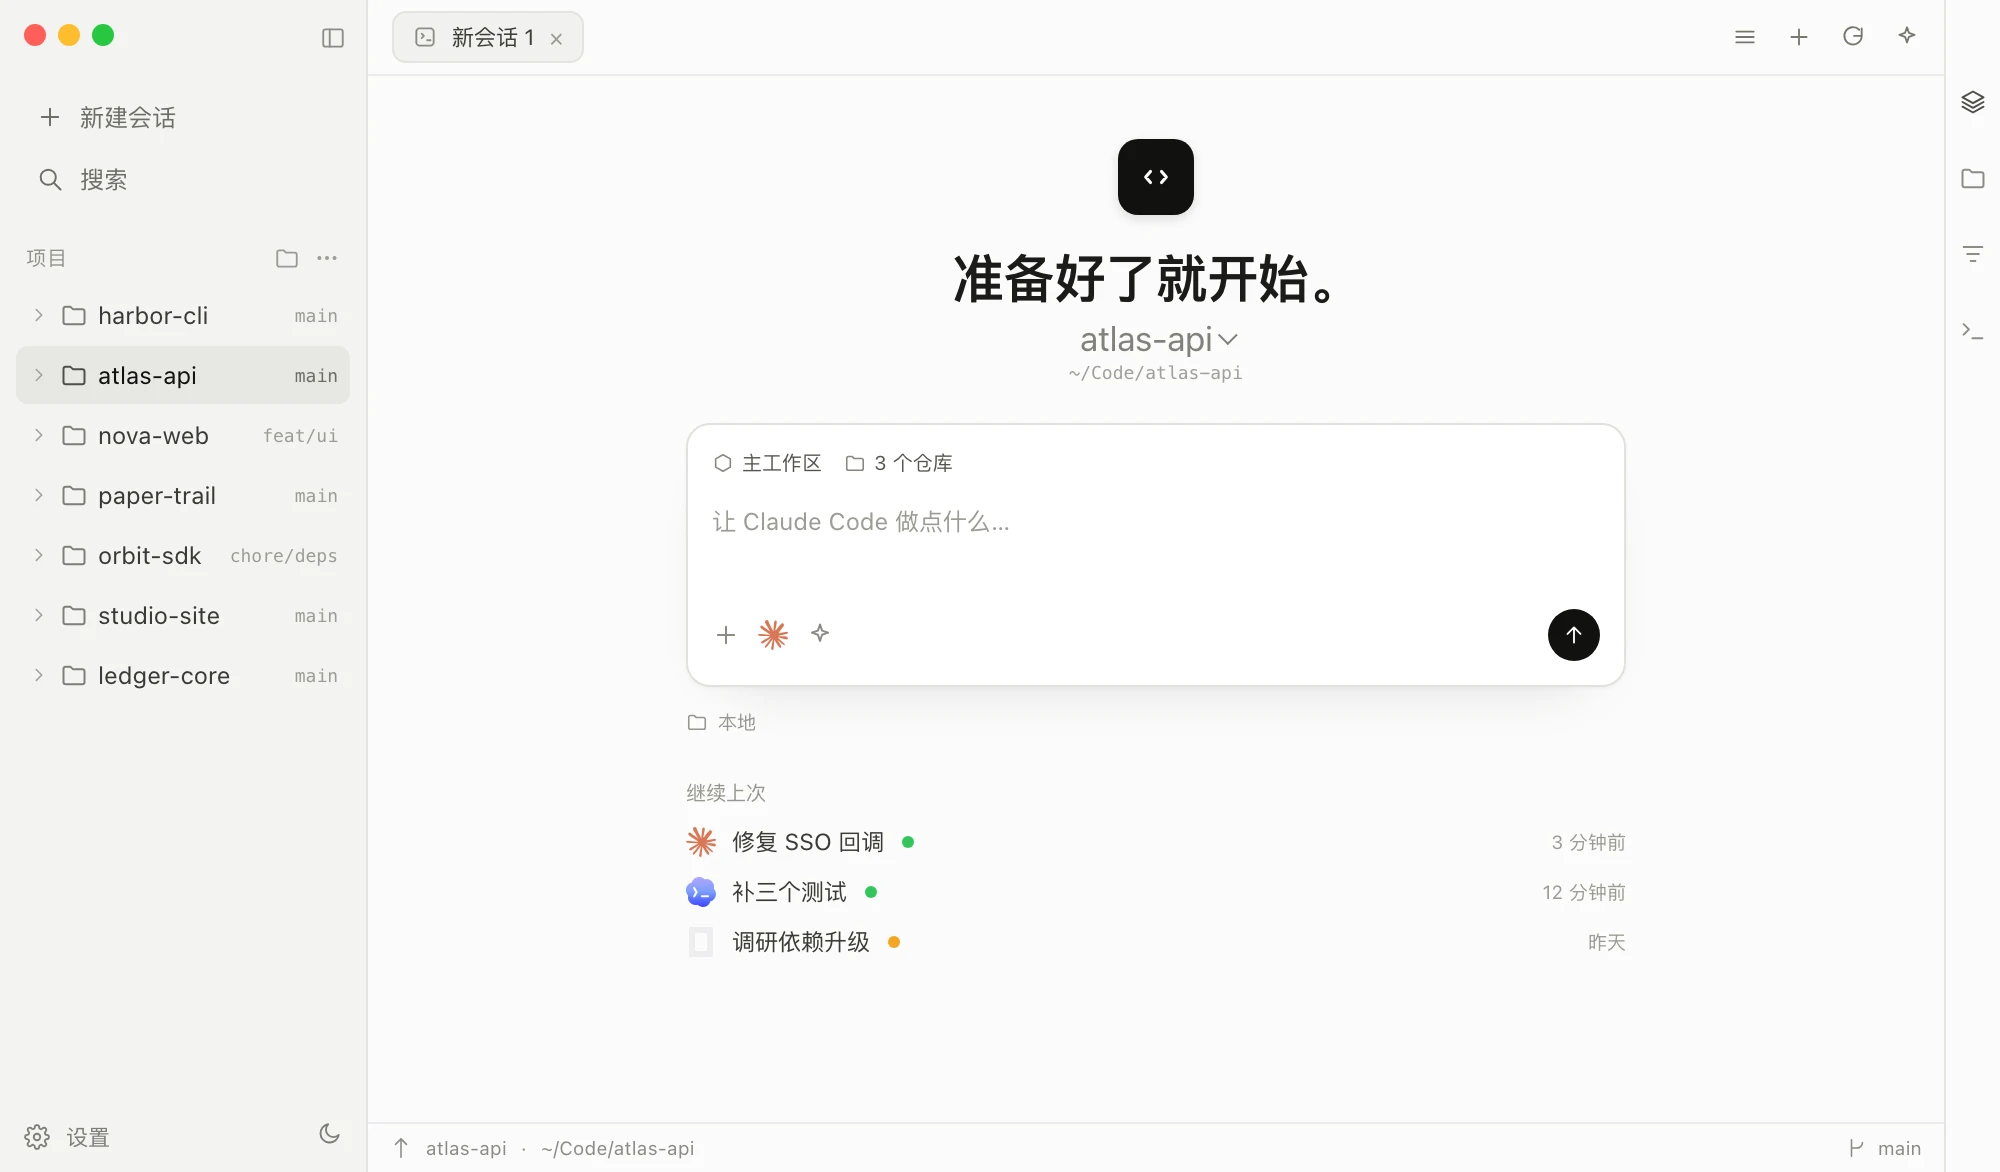
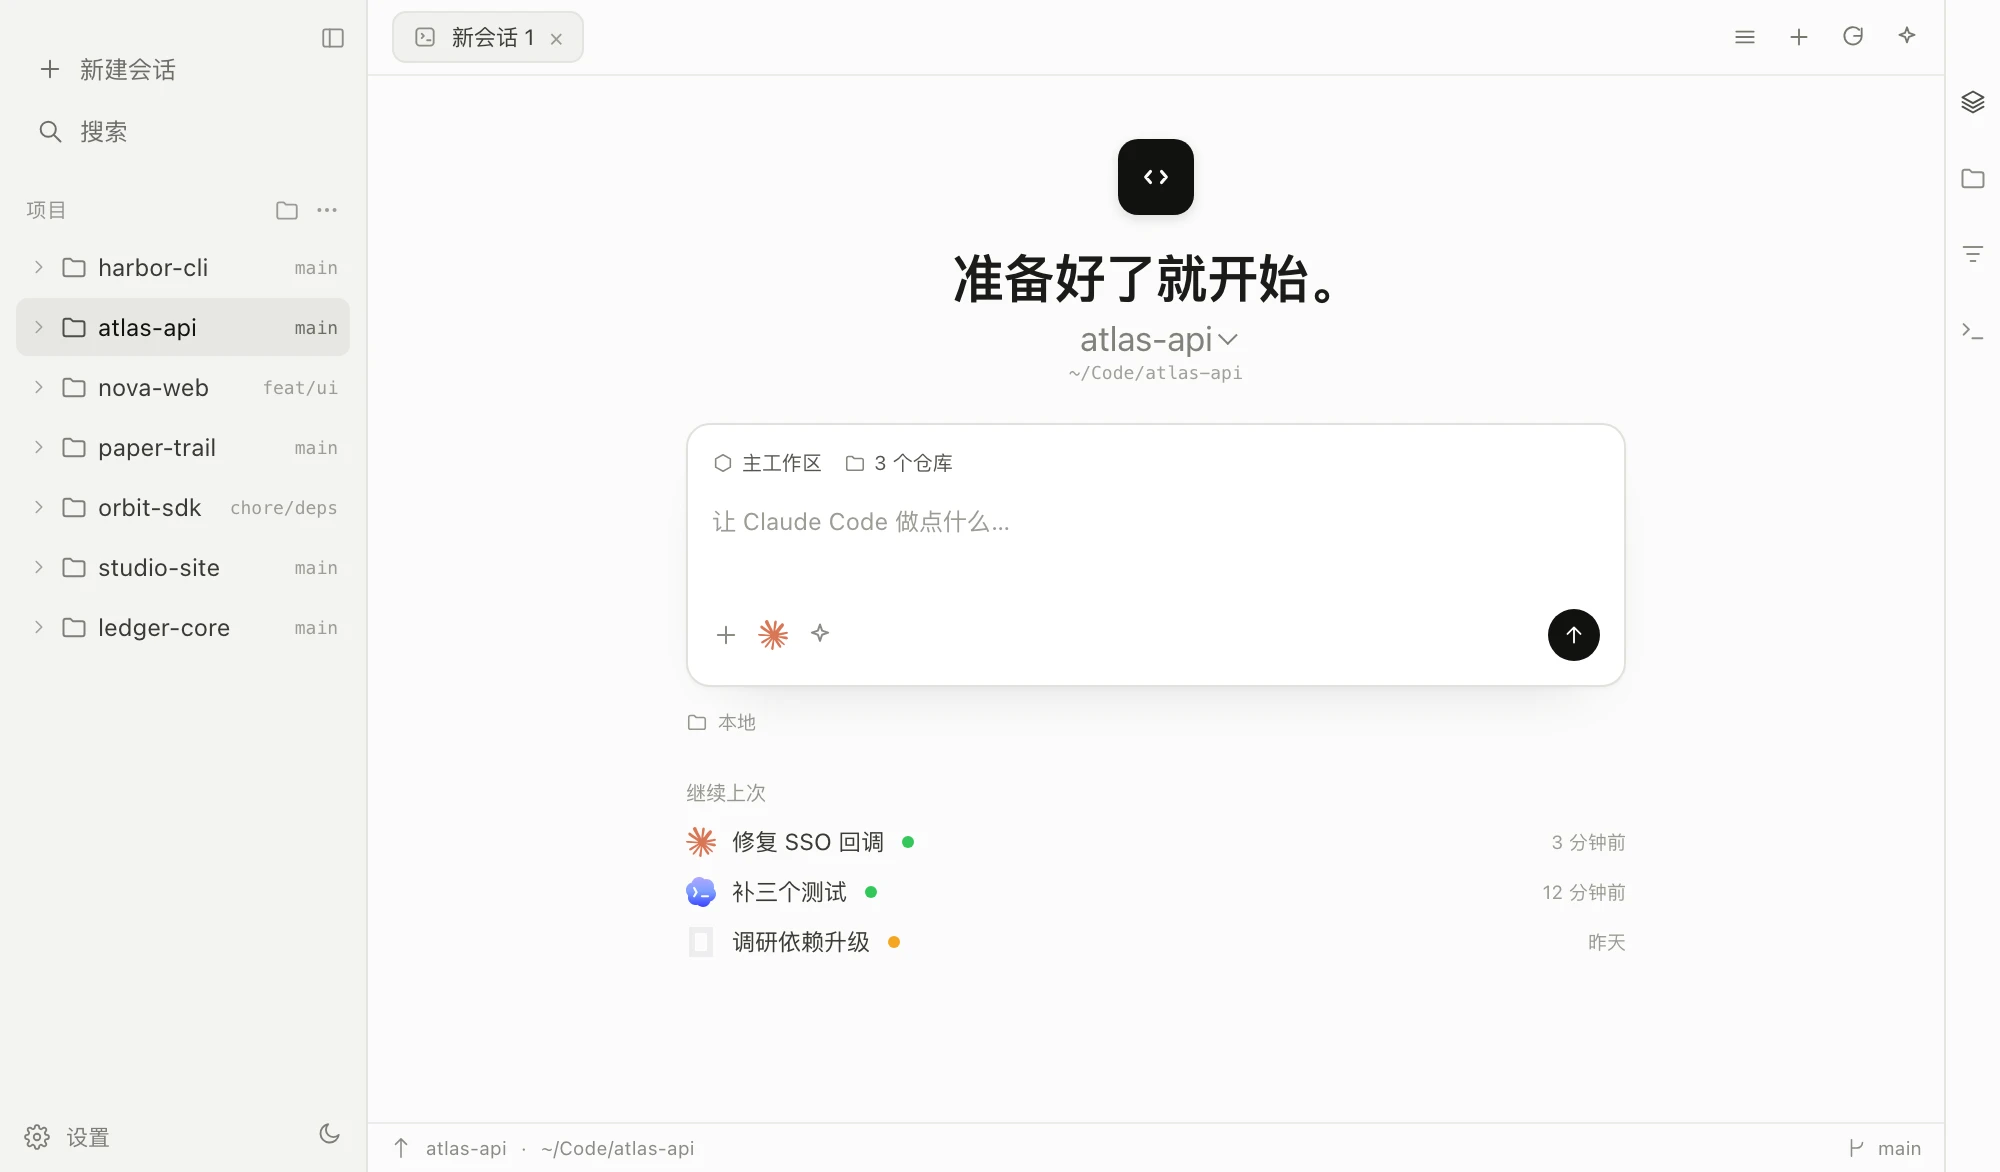
fix(官网): 修正示意图双红绿灯与 ⌘K 标签位置
- 去掉假窗口内层红绿灯，只保留外层 CodeBay 窗口标题栏
- 将 ⌘K 浮标从截图下缘移到右侧空白区，避免被 shot-frame 遮挡
- 重新导出 2000x1172 的 hero.webp / hero-og.png

diff --git a/style.css b/style.css
@@ -1429,8 +1429,8 @@ h2 {
   animation-delay: -4.5s;
 }
 .oc-4 {
-  right: 16%;
-  bottom: -18px;
+  right: 0;
+  bottom: 16px;
   animation-delay: -6s;
 }
 
